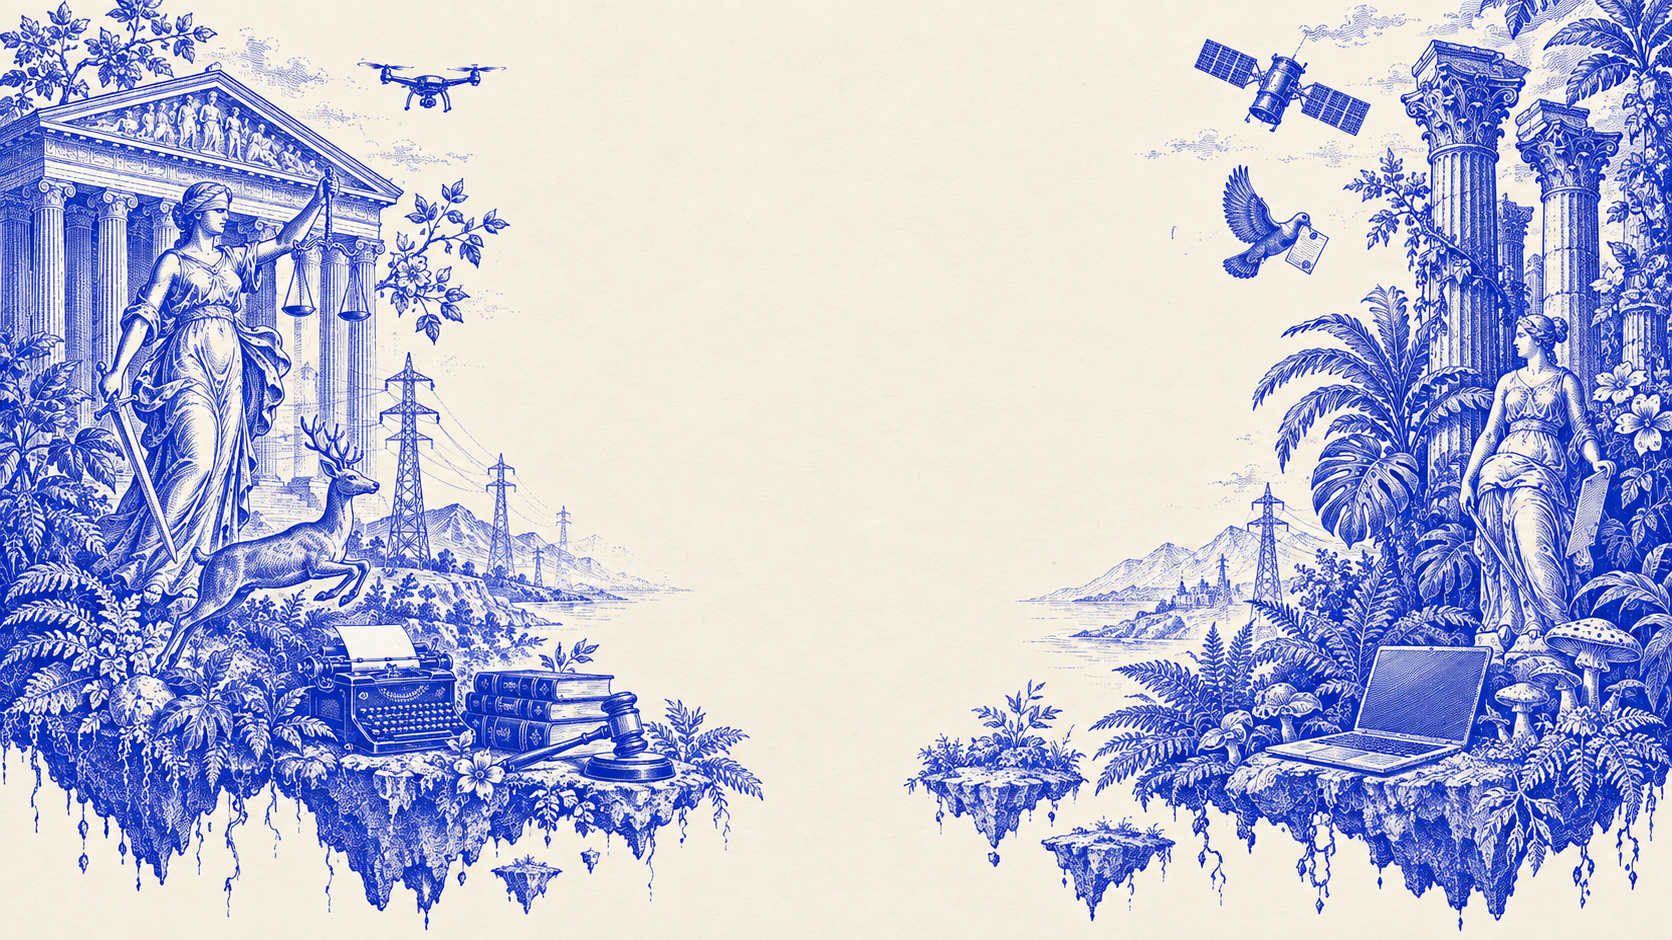
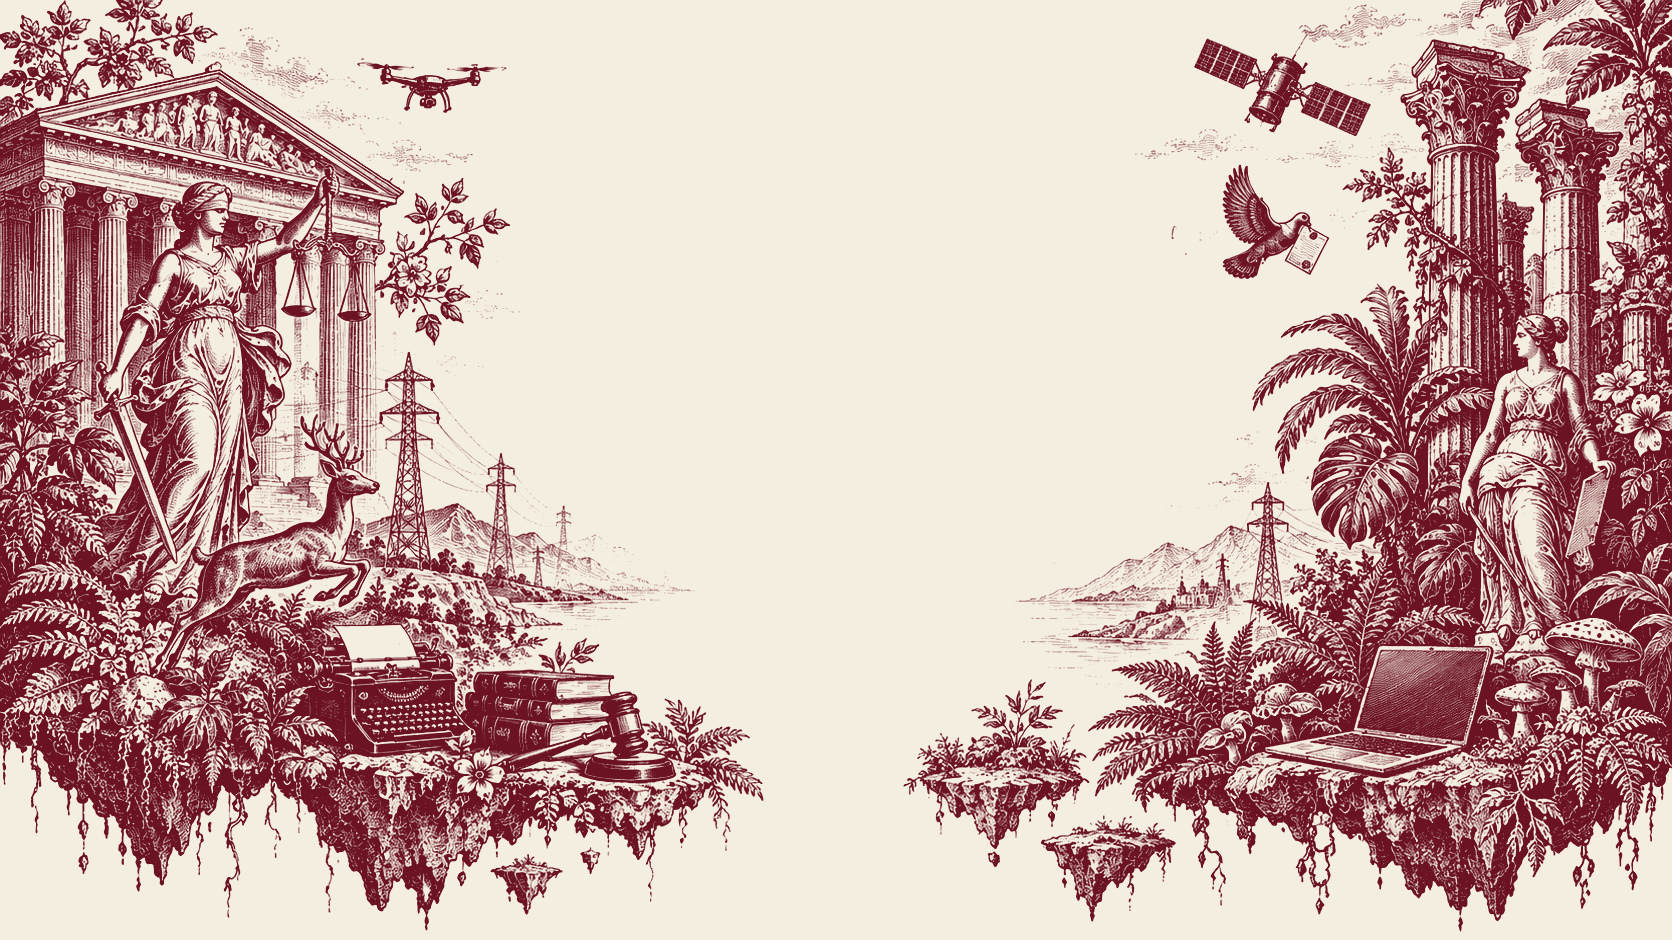
Palette vert foncé et bordeaux, gravures recolorées

diff --git a/style.css b/style.css
@@ -4,7 +4,8 @@
    ============================================================ */
 
 :root {
-  --cobalt: #2431d1;
+  --green: #0b5a39;
+  --wine: #6b1223;
   --paper: #f4eee0;
   --ink: #0d0d12;
   --line: rgba(13, 13, 18, .22);
@@ -36,9 +37,9 @@ img { max-width: 100%; height: auto; display: block; }
 a { color: inherit; }
 ul, ol { list-style: none; margin: 0; padding: 0; }
 h1, h2, h3, p { margin: 0; }
-em { font-style: normal; font-weight: 300; color: var(--cobalt); }
+em { font-style: normal; font-weight: 300; color: var(--wine); }
 
-:focus-visible { outline: 2px solid var(--cobalt); outline-offset: 4px; }
+:focus-visible { outline: 2px solid var(--green); outline-offset: 4px; }
 
 .sr { position: absolute; width: 1px; height: 1px; overflow: hidden; clip: rect(0 0 0 0); white-space: nowrap; }
 .skip { position: absolute; left: -999px; top: 0; background: var(--ink); color: var(--paper); padding: .75rem 1rem; z-index: 200; }
@@ -53,7 +54,7 @@ section { position: relative; }
 /* Liens et boutons : texte souligné */
 .btn, .link {
   font-family: var(--f-ui); font-weight: 500; font-size: .8rem; letter-spacing: .04em;
-  color: var(--cobalt); background: none; border: 0; padding: .2rem 0; cursor: pointer;
+  color: var(--wine); background: none; border: 0; padding: .2rem 0; cursor: pointer;
   text-decoration: underline; text-decoration-thickness: 1px; text-underline-offset: .35em;
 }
 .link { font-family: inherit; font-size: inherit; font-weight: inherit; letter-spacing: 0; }
@@ -67,7 +68,7 @@ section { position: relative; }
 }
 .big em { text-transform: none; font-weight: 300; }
 .big--light { color: var(--paper); }
-.big--light em { color: #b9bfff; }
+.big--light em { color: #9fe0bd; }
 .big--center { text-align: center; }
 .arrow { font-family: var(--f-ui); font-size: .38em; vertical-align: .9em; margin-left: .15em; }
 
@@ -88,7 +89,7 @@ section { position: relative; }
   font-family: var(--f-ui); font-weight: 400; font-size: .8rem; letter-spacing: .01em; text-decoration: none;
 }
 .nav__join { display: none; }
-.nav__cta { justify-self: end; color: var(--cobalt); font-weight: 500; text-decoration: underline; text-underline-offset: .35em; text-decoration-thickness: 1px; }
+.nav__cta { justify-self: end; color: var(--wine); font-weight: 500; text-decoration: underline; text-underline-offset: .35em; text-decoration-thickness: 1px; }
 .nav__logo {
   font-family: var(--f-serif); font-weight: 400; font-size: .95rem; line-height: 1.05;
   letter-spacing: .06em; text-transform: uppercase; text-align: center; text-decoration: none;
@@ -122,22 +123,22 @@ section { position: relative; }
 
 /* ---------- Manifeste ---------- */
 
-.manifeste { background: var(--cobalt); color: var(--paper); padding: clamp(5rem, 10vw, 9rem) 0 0; overflow: hidden; }
+.manifeste { background: var(--green); color: var(--paper); padding: clamp(5rem, 10vw, 9rem) 0 0; overflow: hidden; }
 .manifeste__art { position: relative; width: 100%; height: auto; margin-top: clamp(1rem, 3vw, 3rem); pointer-events: none; }
 .manifeste__title {
   font-weight: 300; font-size: clamp(1.7rem, 3.7vw, 3.3rem);
   line-height: 1.2; letter-spacing: -.01em;
   max-width: 22ch; margin-bottom: clamp(2.5rem, 5vw, 4rem); text-wrap: balance;
 }
-.manifeste__title em { color: #c3c8ff; }
+.manifeste__title em { color: #9fe0bd; }
 .manifeste__cols { display: grid; grid-template-columns: 1.5fr 1fr; gap: clamp(2rem, 6vw, 6rem); align-items: start; padding-top: 1.5rem; border-top: 1px solid rgba(244,238,224,.5); }
 .manifeste__text p + p { margin-top: 1rem; }
 .dico { border: 1px solid rgba(244,238,224,.7); padding: 1.25rem 1.4rem; }
-.dico .ui { color: #c3c8ff; margin-bottom: .6rem; }
-.dico em { color: #c3c8ff; }
+.dico .ui { color: #9fe0bd; margin-bottom: .6rem; }
+.dico em { color: #9fe0bd; }
 .dico__def { font-size: 1.05rem; }
 .stats { display: grid; grid-template-columns: repeat(4, 1fr); gap: 1rem; margin-top: clamp(3rem, 6vw, 5rem); border-top: 1px solid rgba(244,238,224,.5); padding-top: 1.25rem; }
-.stats b { display: block; font-family: var(--f-serif); font-weight: 300; font-size: clamp(1.9rem, 3.4vw, 2.9rem); line-height: 1; color: #c3c8ff; margin-bottom: .3rem; }
+.stats b { display: block; font-family: var(--f-serif); font-weight: 300; font-size: clamp(1.9rem, 3.4vw, 2.9rem); line-height: 1; color: #9fe0bd; margin-bottom: .3rem; }
 
 /* ---------- Listes à filets (métiers, agenda) ---------- */
 
@@ -156,14 +157,15 @@ section { position: relative; }
 .row__n--date { font-family: var(--f-ui); font-size: .8rem; line-height: 1.5; text-transform: uppercase; letter-spacing: .06em; padding-top: .35rem; }
 .row h3 { font-weight: 400; font-size: clamp(1.3rem, 2.3vw, 1.9rem); line-height: 1.2; letter-spacing: -.005em; }
 .row__body p:not(.meta) { margin-top: .5rem; max-width: 46rem; color: var(--soft); }
-.meta { display: flex; align-items: center; gap: .75rem; margin-top: .8rem; font-family: var(--f-ui); font-size: .72rem; color: var(--cobalt); }
+.meta { display: flex; align-items: center; gap: .75rem; margin-top: .8rem; font-family: var(--f-ui); font-size: .72rem; color: var(--green); }
 .meta i { display: block; width: 2.2rem; height: 1px; background: currentColor; }
 .row__arrow { font-family: var(--f-ui); font-size: 1.1rem; justify-self: end; }
 
-/* ---------- Piliers (aplat cobalt) ---------- */
+/* ---------- Piliers (aplat vert) ---------- */
 
-.piliers { background: var(--cobalt); color: var(--paper); padding: clamp(4.5rem, 8vw, 7rem) 0; overflow: hidden; }
+.piliers { background: var(--wine); color: var(--paper); padding: clamp(4.5rem, 8vw, 7rem) 0; overflow: hidden; }
 .piliers__layout { display: grid; grid-template-columns: 1.15fr .85fr; gap: clamp(2rem, 5vw, 5rem); align-items: center; }
+.piliers .big em { color: #f2c6cd; }
 .piliers .big { margin-bottom: clamp(2rem, 4vw, 3.5rem); max-width: 14ch; }
 .piliers__list { border-top: 1px solid rgba(244,238,224,.55); }
 .pilier { display: grid; grid-template-columns: 4.5rem 1fr; gap: 1rem; padding: 1.4rem 0; border-bottom: 1px solid rgba(244,238,224,.4); }
@@ -182,16 +184,16 @@ section { position: relative; }
 .cartouche__photo {
   position: absolute; left: 30.8%; top: 21.5%; width: 38.4%; height: 46.5%; border-radius: 50%;
   display: grid; place-items: center;
-  background: repeating-linear-gradient(135deg, rgba(36,49,209,.1) 0 7px, transparent 7px 14px);
+  background: repeating-linear-gradient(135deg, rgba(11,90,57,.1) 0 7px, transparent 7px 14px);
 }
-.cartouche__photo .ui { background: var(--paper); padding: .15rem .5rem; color: var(--cobalt); }
+.cartouche__photo .ui { background: var(--paper); padding: .15rem .5rem; color: var(--wine); }
 .equipe__txt h3 { font-weight: 400; font-size: clamp(1.5rem, 2.6vw, 2.2rem); line-height: 1.1; text-transform: uppercase; }
-.equipe__txt .role { color: var(--cobalt); margin: .6rem 0 1rem; }
+.equipe__txt .role { color: var(--wine); margin: .6rem 0 1rem; }
 .equipe__join { margin-top: 1.5rem; padding-top: 1.25rem; border-top: 1px solid var(--line); color: var(--soft); }
 
-/* ---------- Rejoindre : aplat cobalt + gravure crème ---------- */
+/* ---------- Rejoindre : aplat vert + gravure crème ---------- */
 
-.rejoindre { background: var(--cobalt); color: var(--paper); padding: clamp(5rem, 9vw, 8rem) 0 0; overflow: hidden; }
+.rejoindre { background: var(--green); color: var(--paper); padding: clamp(5rem, 9vw, 8rem) 0 0; overflow: hidden; }
 .rejoindre .wrap { z-index: 2; }
 .rejoindre__lead { text-align: center; max-width: 34rem; margin: 1.5rem auto 2rem; opacity: .92; }
 .rejoindre__art { position: relative; z-index: 1; width: 100%; height: auto; margin-top: -12vw; pointer-events: none; }
@@ -212,7 +214,7 @@ section { position: relative; }
 
 /* ---------- Pied de page ---------- */
 
-.footer { background: var(--cobalt); color: var(--paper); padding: 0 0 2rem; position: relative; z-index: 2; margin-top: -1px; }
+.footer { background: var(--green); color: var(--paper); padding: 0 0 2rem; position: relative; z-index: 2; margin-top: -1px; }
 .footer__inner { display: grid; grid-template-columns: 1.6fr .7fr 1fr; gap: 2.5rem; align-items: start; }
 .footer__logo { font-weight: 300; font-size: clamp(1.7rem, 3.4vw, 2.7rem); line-height: 1.1; letter-spacing: .02em; text-transform: uppercase; }
 .footer__nav, .footer__soc { display: flex; flex-direction: column; gap: .35rem; padding-top: .4rem; }
@@ -243,7 +245,7 @@ section { position: relative; }
   }
   .nav__links.is-open { display: flex; }
   .nav__links a { padding: .95rem var(--gutter); border-bottom: 1px solid var(--line); font-size: .9rem; }
-  .nav__join { display: block; color: var(--cobalt); }
+  .nav__join { display: block; color: var(--wine); }
   .nav:has(.nav__links.is-open) { background: var(--paper); }
 }
 

diff --git a/index.html b/index.html
@@ -5,7 +5,7 @@
   <meta name="viewport" content="width=device-width, initial-scale=1">
   <title>Lex Tripalium — Les métiers du droit que l'on n'enseigne pas</title>
   <meta name="description" content="Lex Tripalium, association étudiante de l'Université Lyon 3, fait découvrir les métiers du droit auxquels on ne pense jamais : conférences, rencontres et immersions.">
-  <meta name="theme-color" content="#2431d1">
+  <meta name="theme-color" content="#0b5a39">
   <link rel="preconnect" href="https://fonts.googleapis.com">
   <link rel="preconnect" href="https://fonts.gstatic.com" crossorigin>
   <link href="https://fonts.googleapis.com/css2?family=Roboto+Slab:wght@300;400;500;700&family=Instrument+Sans:wght@400;500&display=swap" rel="stylesheet">
@@ -71,7 +71,7 @@
           <h2 id="t-metiers" class="big">Les métiers <span class="arrow" aria-hidden="true">↗</span></h2>
           <p class="head__note">Chaque fiche sera prolongée par une rencontre avec une personne qui exerce vraiment ce métier.</p>
         </div>
-        <img class="metiers__frise" src="assets/metiers-blue.png" alt="Frise gravée de huit personnages portant chacun l'outil d'un métier du droit : médiateur, greffier, commissaire de justice, délégué à la protection des données, juriste de collectivité, juriste international, juriste compliance, administrateur judiciaire." width="2081" height="570" loading="lazy">
+        <img class="metiers__frise" src="assets/metiers-wine.png" alt="Frise gravée de huit personnages portant chacun l'outil d'un métier du droit : médiateur, greffier, commissaire de justice, délégué à la protection des données, juriste de collectivité, juriste international, juriste compliance, administrateur judiciaire." width="2081" height="570" loading="lazy">
 
         <ul class="rows" role="list">
           <li class="row"><span class="row__n">I</span><div class="row__body"><h3>Juriste de collectivité</h3><p>Rédige les délibérations, sécurise les marchés publics et conseille les élus d'une mairie, d'un département ou d'une région.</p><p class="meta"><span>Droit public</span><i></i><span>Fiche à venir</span></p></div><span class="row__arrow" aria-hidden="true">↗</span></li>
@@ -117,7 +117,7 @@
 
     <!-- AGENDA -->
     <section class="agenda" id="agenda" aria-labelledby="t-agenda">
-      <img class="agenda__bg" src="assets/hero-blue.png" alt="" aria-hidden="true" width="1672" height="940" loading="lazy">
+      <img class="agenda__bg" src="assets/hero-green.png" alt="" aria-hidden="true" width="1672" height="940" loading="lazy">
       <div class="wrap">
         <div class="head">
           <h2 id="t-agenda" class="big">Au programme <span class="arrow" aria-hidden="true">↗</span></h2>
@@ -142,7 +142,7 @@
         <div class="equipe__grid">
           <div class="cartouche">
             <div class="cartouche__photo" role="img" aria-label="Emplacement réservé pour la photo de la fondatrice"><span class="ui">Photo</span></div>
-            <img src="assets/equipe-blue.png" alt="Cartouche ovale gravé, orné de lauriers, de glycines, d'un temple grec, d'une balance, de livres, d'un ordinateur et d'une colombe sur une île flottante." width="1254" height="1254" loading="lazy">
+            <img src="assets/equipe-green.png" alt="Cartouche ovale gravé, orné de lauriers, de glycines, d'un temple grec, d'une balance, de livres, d'un ordinateur et d'une colombe sur une île flottante." width="1254" height="1254" loading="lazy">
           </div>
           <div class="equipe__txt">
             <h3>Prénom Nom</h3>
